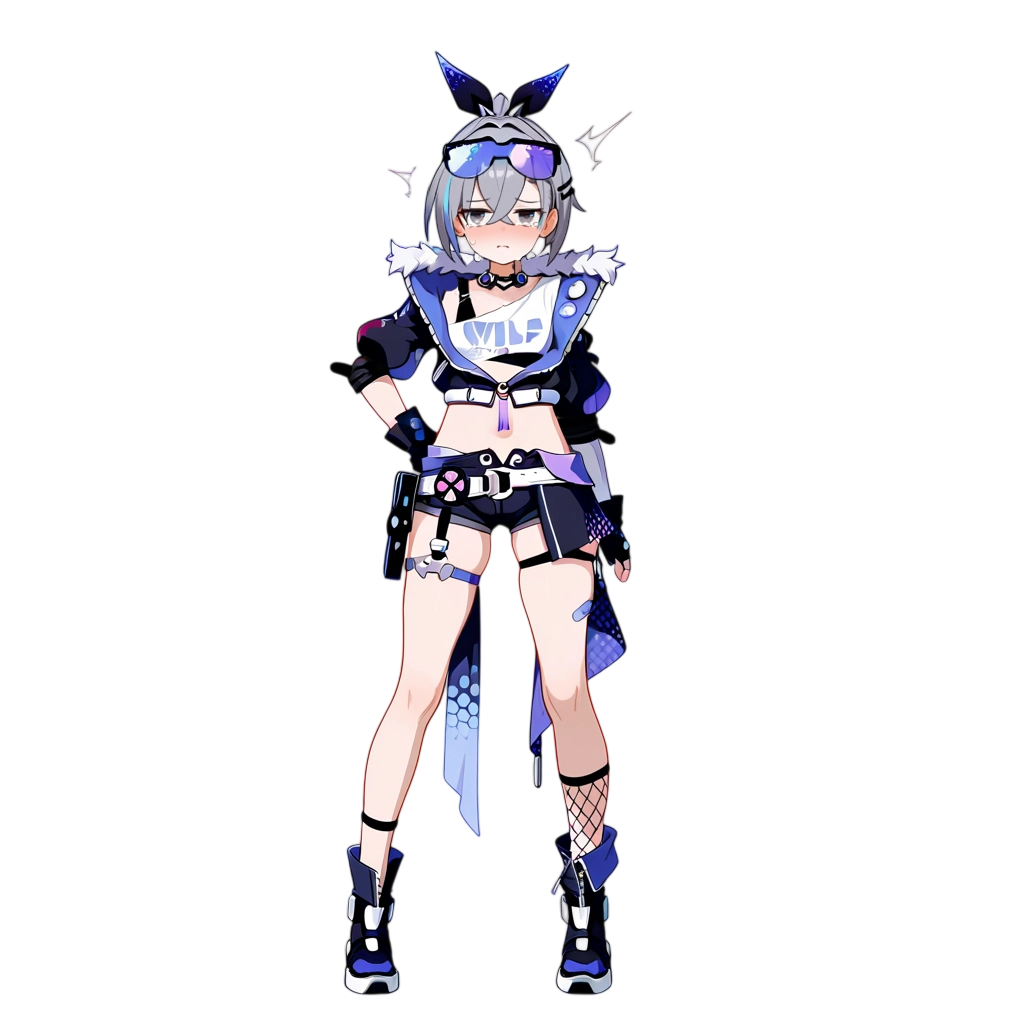
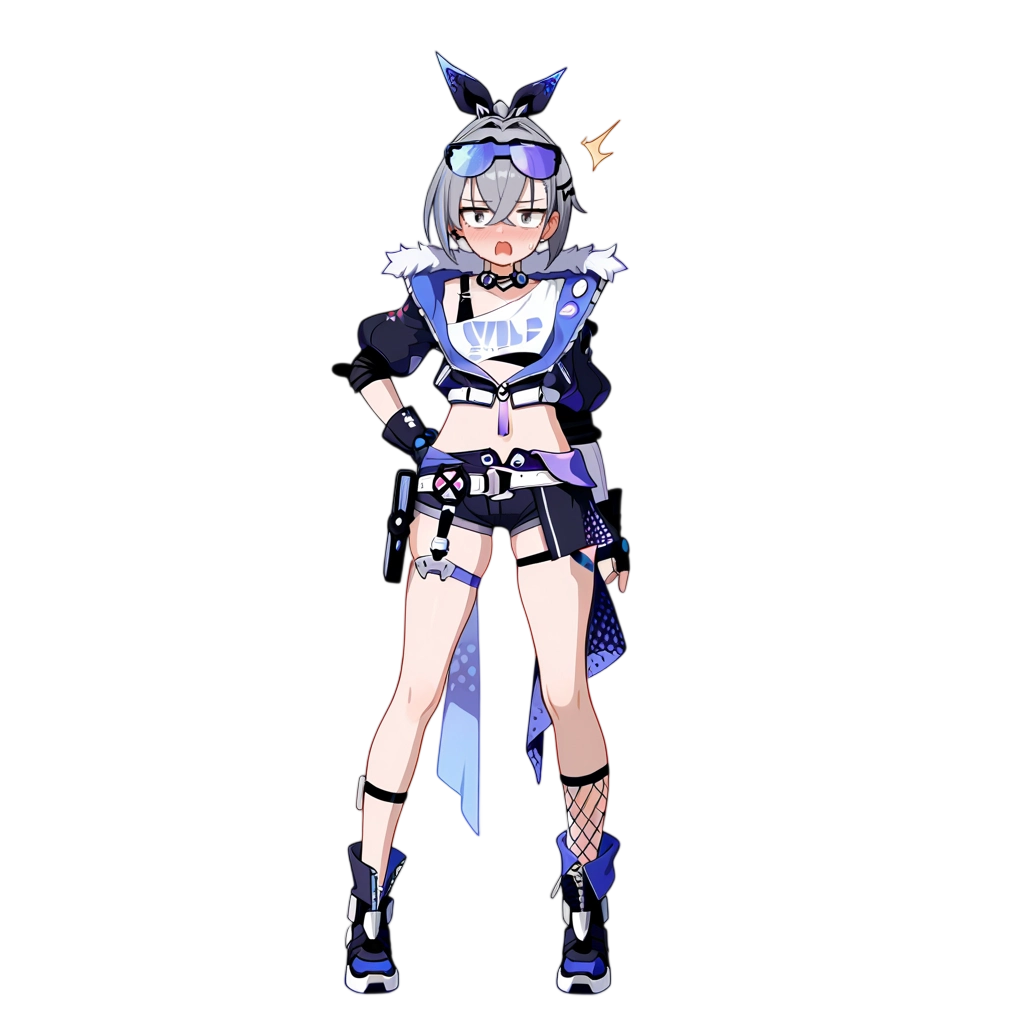
fix: 表情描述

Changed region(s): [[0.3125, 0.0625, 0.625, 0.9688]]

diff --git a/characters/Silver_Wolf.py b/characters/Silver_Wolf.py
@@ -14,7 +14,7 @@ CHARACTER_COLOR = "#9c27b0"  # 角色名称颜色
 #角色情绪，需要与立绘对应
 #⚠即使没有相应的立绘也建议填写，否则可能会影响AI生成的质量
 MOODS=[
-    "平静","兴奋","愤怒","委屈","惊讶"
+    "平静","开心","愤怒","惊讶","无语","委屈"
 ]
 
 #是否启用语音（未实现）
